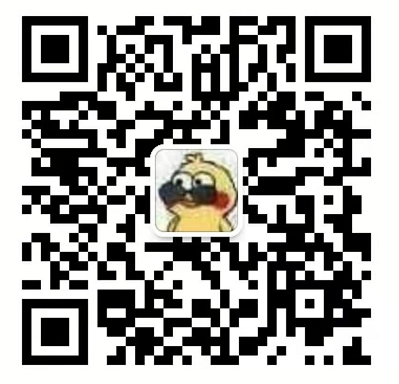
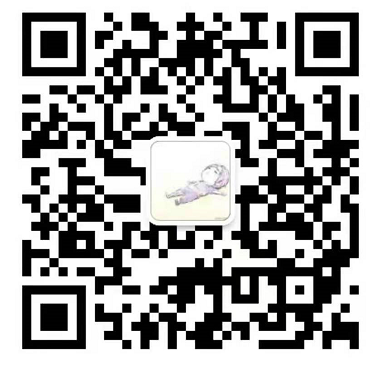
2021-02-22 fix bug

diff --git a/src/main/resources/templates/blog.html b/src/main/resources/templates/blog.html
@@ -443,11 +443,11 @@ h5,h6{font-size:1em;}
             <div class="ui orange basic label">
               <div class="ui images" style="font-size: inherit !important;">
                 <div class="image">
-                  <img src="../static/images/wechat.jpg" th:src="@{/images/wechat.jpg}" alt="" class="ui rounded bordered image" style="width: 120px">
+                  <img src="../static/images/wechat_qrcode.png" th:src="@{/images/wechat_qrcode.png}" alt="" class="ui rounded bordered image" style="width: 120px">
                   <div>支付宝</div>
                 </div>
                 <div class="image">
-                  <img src="../static/images/wechat.jpg" th:src="@{/images/wechat.jpg}" alt="" class="ui rounded bordered image" style="width: 120px">
+                  <img src="../static/images/wechat_qrcode.png" th:src="@{/images/wechat_qrcode.png}" alt="" class="ui rounded bordered image" style="width: 120px">
                   <div>微信</div>
                 </div>
               </div>
@@ -468,7 +468,7 @@ h5,h6{font-size:1em;}
             </ui>
           </div>
           <div class="five wide column">
-            <img src="../static/images/wechat.jpg" th:src="@{/images/wechat.jpg}" alt="" class="ui right floated rounded bordered image" style="width: 110px">
+            <img src="../static/images/wechat_qrcode.png" th:src="@{/images/wechat_qrcode.png}" alt="" class="ui right floated rounded bordered image" style="width: 110px">
           </div>
         </div>
       </div>
@@ -625,7 +625,7 @@ h5,h6{font-size:1em;}
   </div>
 
   <div id="qrcode" class="ui wechat-qr flowing popup transition hidden "style="width: 130px !important;">
-    <!--<img src="./static/images/wechat.jpg" alt="" class="ui rounded image" style="width: 120px !important;">-->
+    <!--<img src="./static/images/wechat_qrcode.png" alt="" class="ui rounded image" style="width: 120px !important;">-->
   </div>
 
 
@@ -639,7 +639,7 @@ h5,h6{font-size:1em;}
         <div class="three wide column">
           <div class="ui inverted link list">
             <div class="item">
-              <img src="../static/images/wechat.jpg" class="ui rounded image" alt="" style="width: 110px">
+              <img src="../static/images/wechat_qrcode.png" class="ui rounded image" alt="" style="width: 110px">
             </div>
           </div>
         </div>
@@ -654,8 +654,8 @@ h5,h6{font-size:1em;}
         <div class="three wide column">
           <h4 class="ui inverted header m-text-thin m-text-spaced ">联系我</h4>
           <div class="ui inverted link list">
-            <a href="#" class="item m-text-thin">Email：lirenmi@163.com</a>
-            <a href="#" class="item m-text-thin">QQ：865729312</a>
+            <a href="#" class="item m-text-thin">Email：zhangyibing618@163.com</a>
+            <a href="#" class="item m-text-thin">QQ：794357265</a>
           </div>
         </div>
         <div class="seven wide column">
@@ -664,7 +664,6 @@ h5,h6{font-size:1em;}
         </div>
       </div>
       <div class="ui inverted section divider"></div>
-      <p class="m-text-thin m-text-spaced m-opacity-tiny">Copyright © 2016 - 2017 Lirenmi Designed by Lirenmi</p>
     </div>
 
   </footer>

diff --git a/src/main/resources/templates/about.html b/src/main/resources/templates/about.html
@@ -68,11 +68,11 @@
           <div class="ui bottom attached segment">
             <a href="#" class="ui circular icon button"><i class="github icon"></i></a>
             <a href="#" class="ui wechat circular icon button"><i class="weixin icon"></i></a>
-            <a href="#" class="ui qq circular icon button" data-content="865729312" data-position="bottom center"><i class="qq icon"></i></a>
+            <a href="#" class="ui qq circular icon button" data-content="794357265" data-position="bottom center"><i class="qq icon"></i></a>
           </div>
 
           <div class="ui wechat-qr flowing popup transition hidden">
-            <img src="../static/images/wechat.jpg" alt="" class="ui rounded image" style="width: 110px">
+            <img src="../static/images/wechat_qrcode.png" alt="" class="ui rounded image" style="width: 110px">
           </div>
           </div>
       </div>
@@ -89,7 +89,7 @@
         <div class="three wide column">
           <div class="ui inverted link list">
             <div class="item">
-              <img src="../static/images/wechat.jpg" class="ui rounded image" alt="" style="width: 110px">
+              <img src="../static/images/wechat_qrcode.png" class="ui rounded image" alt="" style="width: 110px">
             </div>
           </div>
         </div>
@@ -104,8 +104,8 @@
         <div class="three wide column">
           <h4 class="ui inverted header m-text-thin m-text-spaced ">联系我</h4>
           <div class="ui inverted link list">
-            <a href="#" class="item m-text-thin">Email：lirenmi@163.com</a>
-            <a href="#" class="item m-text-thin">QQ：865729312</a>
+            <a href="#" class="item m-text-thin">Email：zhangyibing618@163.com</a>
+            <a href="#" class="item m-text-thin">QQ：794357265</a>
           </div>
         </div>
         <div class="seven wide column">
@@ -114,7 +114,6 @@
         </div>
       </div>
       <div class="ui inverted section divider"></div>
-      <p class="m-text-thin m-text-spaced m-opacity-tiny">Copyright © 2016 - 2017 Lirenmi Designed by Lirenmi</p>
     </div>
 
   </footer>

diff --git a/src/main/resources/templates/index.html b/src/main/resources/templates/index.html
@@ -542,7 +542,7 @@
           <!--二维码-->
           <h4 class="ui horizontal divider header m-margin-top-large">扫码关注我</h4>
           <div class="ui centered card" style="width: 11em">
-            <img src="../static/images/wechat.jpg" th:src="@{/images/wechat.jpg}" alt="" class="ui rounded image" >
+            <img src="../static/images/wechat_qrcode.png" th:src="@{/images/wechat_qrcode.png}" alt="" class="ui rounded image" >
           </div>
         </div>
 
@@ -560,7 +560,7 @@
         <div class="three wide column">
           <div class="ui inverted link list">
             <div class="item">
-              <img src="../static/images/wechat.jpg" th:src="@{/images/wechat.jpg}"  class="ui rounded image" alt="" style="width: 110px">
+              <img src="../static/images/wechat_qrcode.png" th:src="@{/images/wechat_qrcode.png}"  class="ui rounded image" alt="" style="width: 110px">
             </div>
           </div>
         </div>
@@ -575,8 +575,8 @@
         <div class="three wide column">
           <h4 class="ui inverted header m-text-thin m-text-spaced ">联系我</h4>
           <div class="ui inverted link list">
-            <a href="#" class="item m-text-thin">Email：lirenmi@163.com</a>
-            <a href="#" class="item m-text-thin">QQ：865729312</a>
+            <a href="#" class="item m-text-thin">Email：zhangyibing618@163.com</a>
+            <a href="#" class="item m-text-thin">QQ：794357265</a>
           </div>
         </div>
         <div class="seven wide column">

diff --git a/src/main/resources/templates/search.html b/src/main/resources/templates/search.html
@@ -110,7 +110,7 @@
         <div class="three wide column">
           <div class="ui inverted link list">
             <div class="item">
-              <img src="../static/images/wechat.jpg" class="ui rounded image" alt="" style="width: 110px">
+              <img src="../static/images/wechat_qrcode.png" class="ui rounded image" alt="" style="width: 110px">
             </div>
           </div>
         </div>
@@ -125,8 +125,8 @@
         <div class="three wide column">
           <h4 class="ui inverted header m-text-thin m-text-spaced ">联系我</h4>
           <div class="ui inverted link list">
-            <a href="#" class="item m-text-thin">Email：lirenmi@163.com</a>
-            <a href="#" class="item m-text-thin">QQ：865729312</a>
+            <a href="#" class="item m-text-thin">Email：zhangyibing618@163.com</a>
+            <a href="#" class="item m-text-thin">QQ：794357265</a>
           </div>
         </div>
         <div class="seven wide column">
@@ -135,7 +135,6 @@
         </div>
       </div>
       <div class="ui inverted section divider"></div>
-      <p class="m-text-thin m-text-spaced m-opacity-tiny">Copyright © 2016 - 2017 Lirenmi Designed by Lirenmi</p>
     </div>
 
   </footer>

diff --git a/src/main/resources/templates/tags.html b/src/main/resources/templates/tags.html
@@ -122,7 +122,7 @@
         <div class="three wide column">
           <div class="ui inverted link list">
             <div class="item">
-              <img src="../static/images/wechat.jpg" class="ui rounded image" alt="" style="width: 110px">
+              <img src="../static/images/wechat_qrcode.png" class="ui rounded image" alt="" style="width: 110px">
             </div>
           </div>
         </div>
@@ -137,8 +137,8 @@
         <div class="three wide column">
           <h4 class="ui inverted header m-text-thin m-text-spaced ">联系我</h4>
           <div class="ui inverted link list">
-            <a href="#" class="item m-text-thin">Email：lirenmi@163.com</a>
-            <a href="#" class="item m-text-thin">QQ：865729312</a>
+            <a href="#" class="item m-text-thin">Email：zhangyibing618@163.com</a>
+            <a href="#" class="item m-text-thin">QQ：794357265</a>
           </div>
         </div>
         <div class="seven wide column">
@@ -147,7 +147,6 @@
         </div>
       </div>
       <div class="ui inverted section divider"></div>
-      <p class="m-text-thin m-text-spaced m-opacity-tiny">Copyright © 2016 - 2017 Lirenmi Designed by Lirenmi</p>
     </div>
 
   </footer>

diff --git a/src/main/resources/templates/types.html b/src/main/resources/templates/types.html
@@ -115,7 +115,7 @@
         <div class="three wide column">
           <div class="ui inverted link list">
             <div class="item">
-              <img src="../static/images/wechat.jpg" class="ui rounded image" alt="" style="width: 110px">
+              <img src="../static/images/wechat_qrcode.png" class="ui rounded image" alt="" style="width: 110px">
             </div>
           </div>
         </div>
@@ -130,8 +130,8 @@
         <div class="three wide column">
           <h4 class="ui inverted header m-text-thin m-text-spaced ">联系我</h4>
           <div class="ui inverted link list">
-            <a href="#" class="item m-text-thin">Email：lirenmi@163.com</a>
-            <a href="#" class="item m-text-thin">QQ：865729312</a>
+            <a href="#" class="item m-text-thin">Email：zhangyibing618@163.com</a>
+            <a href="#" class="item m-text-thin">QQ：794357265</a>
           </div>
         </div>
         <div class="seven wide column">
@@ -140,7 +140,6 @@
         </div>
       </div>
       <div class="ui inverted section divider"></div>
-      <p class="m-text-thin m-text-spaced m-opacity-tiny">Copyright © 2016 - 2017 Lirenmi Designed by Lirenmi</p>
     </div>
 
   </footer>

diff --git a/src/main/resources/templates/archives.html b/src/main/resources/templates/archives.html
@@ -94,7 +94,7 @@
         <div class="three wide column">
           <div class="ui inverted link list">
             <div class="item">
-              <img src="../static/images/wechat.jpg" class="ui rounded image" alt="" style="width: 110px">
+              <img src="../static/images/wechat_qrcode.png" class="ui rounded image" alt="" style="width: 110px">
             </div>
           </div>
         </div>
@@ -109,8 +109,8 @@
         <div class="three wide column">
           <h4 class="ui inverted header m-text-thin m-text-spaced ">联系我</h4>
           <div class="ui inverted link list">
-            <a href="#" class="item m-text-thin">Email：lirenmi@163.com</a>
-            <a href="#" class="item m-text-thin">QQ：865729312</a>
+            <a href="#" class="item m-text-thin">Email：zhangyibing618@163.com</a>
+            <a href="#" class="item m-text-thin">QQ：794357265</a>
           </div>
         </div>
         <div class="seven wide column">
@@ -119,7 +119,6 @@
         </div>
       </div>
       <div class="ui inverted section divider"></div>
-      <p class="m-text-thin m-text-spaced m-opacity-tiny">Copyright © 2016 - 2017 Lirenmi Designed by Lirenmi</p>
     </div>
 
   </footer>

diff --git a/src/main/resources/templates/admin/blogs-input.html b/src/main/resources/templates/admin/blogs-input.html
@@ -161,7 +161,7 @@
             <div class="three wide column">
                 <div class="ui inverted link list">
                     <div class="item">
-                        <img src="../../static/images/wechat.jpg" class="ui rounded image" alt="" style="width: 110px">
+                        <img src="../../static/images/wechat_qrcode.png" class="ui rounded image" alt="" style="width: 110px">
                     </div>
                 </div>
             </div>
@@ -176,8 +176,8 @@
             <div class="three wide column">
                 <h4 class="ui inverted header m-text-thin m-text-spaced ">联系我</h4>
                 <div class="ui inverted link list">
-                    <a href="#" class="item m-text-thin">Email：lirenmi@163.com</a>
-                    <a href="#" class="item m-text-thin">QQ：865729312</a>
+                    <a href="#" class="item m-text-thin">Email：zhangyibing618@163.com</a>
+                    <a href="#" class="item m-text-thin">QQ：794357265</a>
                 </div>
             </div>
             <div class="seven wide column">

diff --git a/src/main/resources/templates/_fragments.html b/src/main/resources/templates/_fragments.html
@@ -17,7 +17,7 @@
 <nav th:fragment="menu(n)" class="ui inverted attached segment m-padded-tb-mini m-shadow-small" >
     <div class="ui container">
         <div class="ui inverted secondary stackable menu">
-            <h2 class="ui teal header item">Blog</h2>
+            <h2 class="ui teal header item">Bing log</h2>
             <a href="#" th:href="@{/}" class="m-item item m-mobile-hide " th:classappend="${n==1} ? 'active'"><i class="home icon"></i>首页</a>
             <a href="#" th:href="@{/types/-1}" class="m-item item m-mobile-hide" th:classappend="${n==2} ? 'active'"><i class="idea icon"></i>分类</a>
             <a href="#" th:href="@{/tags/-1}" class="m-item item m-mobile-hide" th:classappend="${n==3} ? 'active'"><i class="tags icon"></i>标签</a>

diff --git a/src/main/resources/static/css/typo.css b/src/main/resources/static/css/typo.css
@@ -4,7 +4,7 @@
   font-size: 16px;
   font-weight: 300;
   line-height: 1.8;
-  text-align: justify;
+  /*text-align: justify;*/
 }
 
 .typo li {

diff --git a/src/main/java/com/qianluohan/util/MarkdownUtils.java b/src/main/java/com/qianluohan/util/MarkdownUtils.java
@@ -11,6 +11,8 @@ import org.commonmark.renderer.html.AttributeProvider;
 import org.commonmark.renderer.html.AttributeProviderContext;
 import org.commonmark.renderer.html.AttributeProviderFactory;
 import org.commonmark.renderer.html.HtmlRenderer;
+import org.springframework.beans.factory.annotation.Value;
+import org.springframework.stereotype.Component;
 
 import java.util.*;
 
@@ -19,7 +21,10 @@ import java.util.*;
 * @Date 2021/1/7
 * @desription 
 **/
+@Component
 public class MarkdownUtils {
+
+    private static String picServerAddress;
 
     /**
      * markdown格式转换成HTML格式
@@ -40,6 +45,8 @@ public class MarkdownUtils {
      * @return
      */
     public static String markdownToHtmlExtensions(String markdown) {
+        String picServerAddress = getPicServerAddress();
+        markdown = markdown.replaceAll("@@picAddress@@", picServerAddress);
         //h标题生成id
         Set<Extension> headingAnchorExtensions = Collections.singleton(HeadingAnchorExtension.create());
         //转换table的HTML
@@ -76,14 +83,12 @@ public class MarkdownUtils {
         }
     }
 
+    public static String getPicServerAddress() {
+        return picServerAddress;
+    }
 
-    public static void main(String[] args) {
-        String table = "| hello | hi   | 哈哈哈   |\n" +
-                "| ----- | ---- | ----- |\n" +
-                "| 斯维尔多  | 士大夫  | f啊    |\n" +
-                "| 阿什顿发  | 非固定杆 | 撒阿什顿发 |\n" +
-                "\n";
-        String a = "[imCoding 爱编程](http://www.lirenmi.cn)";
-        System.out.println(markdownToHtmlExtensions(a));
+    @Value("${zimg.address}")
+    public void setPicServerAddress(String picServerAddress) {
+        MarkdownUtils.picServerAddress = picServerAddress;
     }
 }

diff --git a/src/main/java/com/qianluohan/web/ZimgPicController.java b/src/main/java/com/qianluohan/web/ZimgPicController.java
@@ -1,0 +1,22 @@
+package com.qianluohan.web;
+
+import org.springframework.stereotype.Controller;
+import org.springframework.web.bind.annotation.PathVariable;
+import org.springframework.web.bind.annotation.RequestMapping;
+
+import javax.websocket.server.PathParam;
+
+/**
+* @author zhangyibing  zhangyibing618@163.com
+* @Date 2021/2/22
+* @desription
+**/
+@Controller
+public class ZimgPicController {
+
+    @RequestMapping("/zimg/getPic/{id}")
+    public void getPicById(@PathVariable String id){
+
+    }
+
+}
